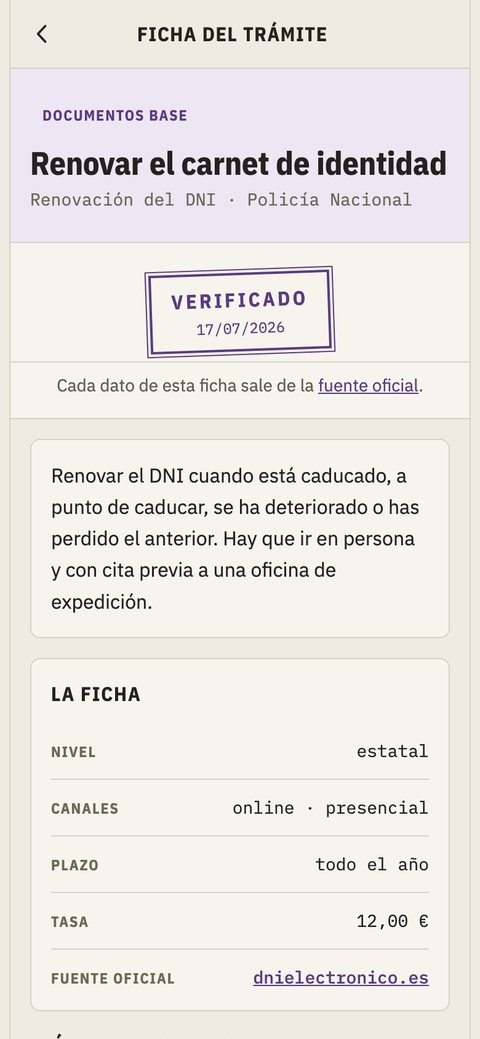
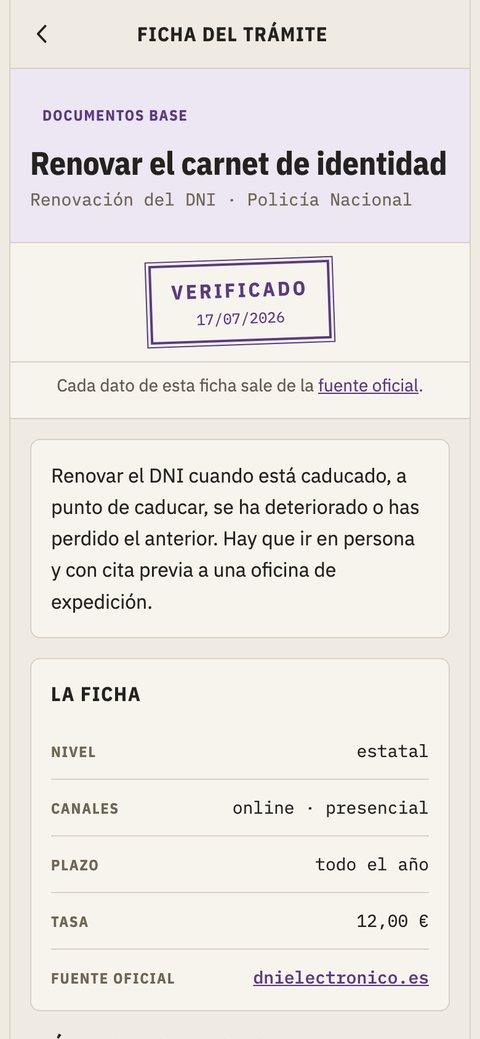
Centrar el sello dentro de su banda en la ficha
La banda llevaba padding 24px arriba y 8px abajo, así que el sello caía 15px por
debajo del centro. Medido en el navegador: 21,5 de aire arriba contra 6,5 abajo.

Ahora el padding es simétrico y queda en 13,5 y 14,5. El píxel que sobra es el
propio giro de 2° del estampado, que hace su caja un pelo asimétrica.

La app no tiene este problema: ahí el sello va en el flujo del contenido, sin
banda propia. Es cosa de la maqueta.

Changed region(s): [[0.2812, 0.2464, 0.7188, 0.3696]]

diff --git a/diseño/pantallas/Detalle de trámite.html b/diseño/pantallas/Detalle de trámite.html
@@ -162,7 +162,10 @@
     .zona-sello {
       display: flex;
       justify-content: center;
-      padding: var(--sp-xl) var(--sp-lg) var(--sp-sm);
+      align-items: center;
+      /* Simétrico a propósito: con 24 arriba y 8 abajo el sello quedaba 15px caído
+         dentro de su banda. Si se toca uno, se tocan los dos. */
+      padding: var(--sp-lg);
       background-color: var(--hoja);
       border-bottom: 1px solid var(--linea);
     }
